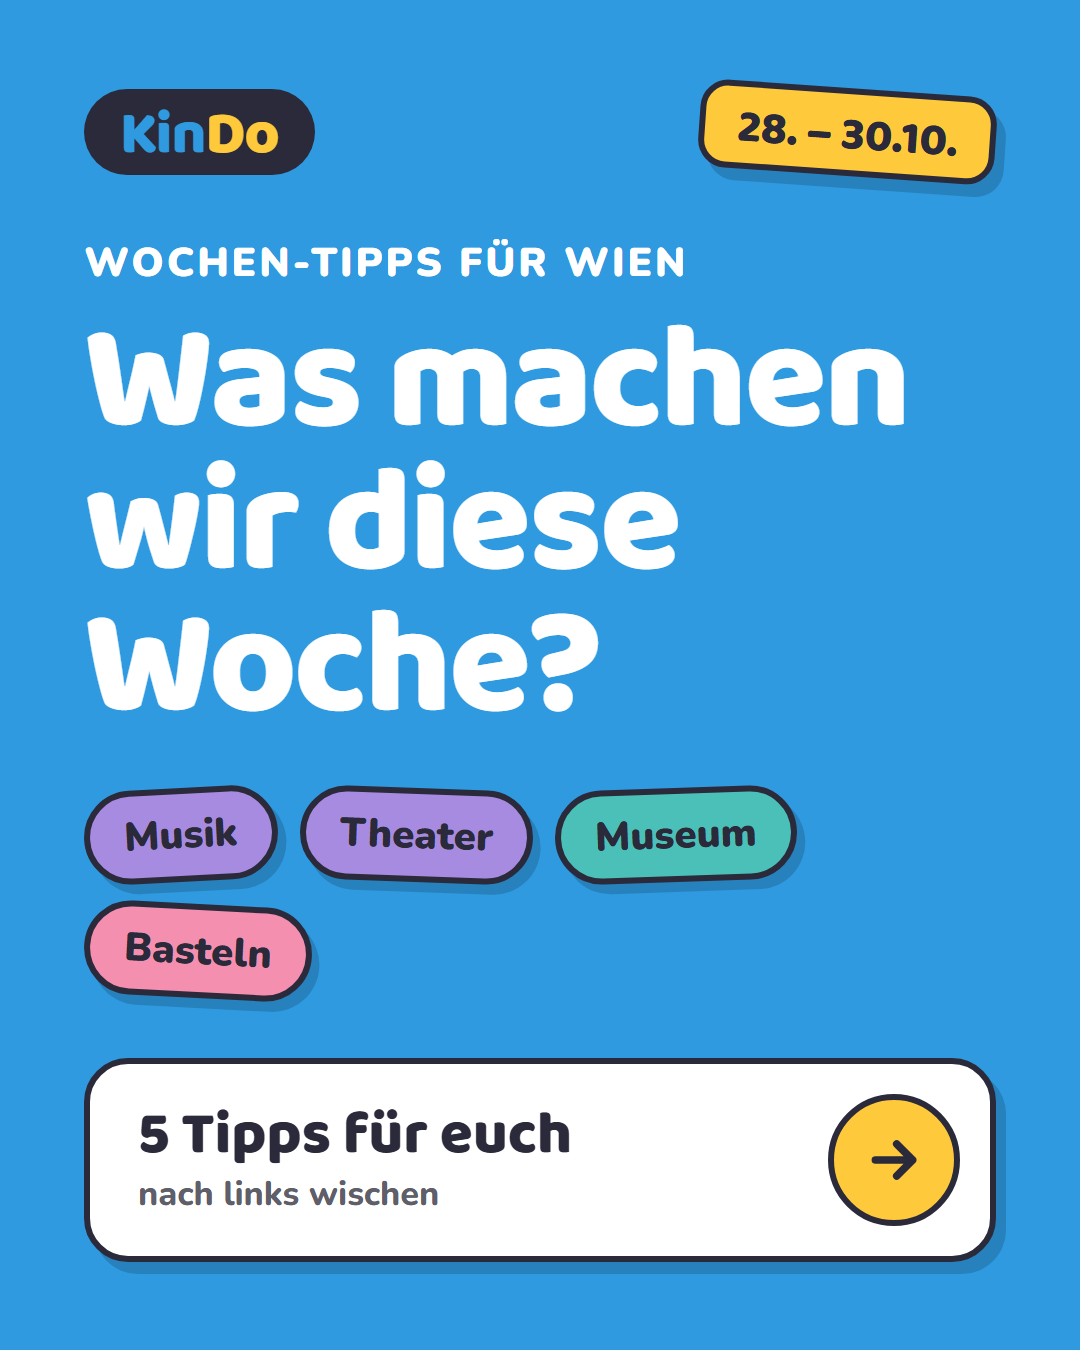
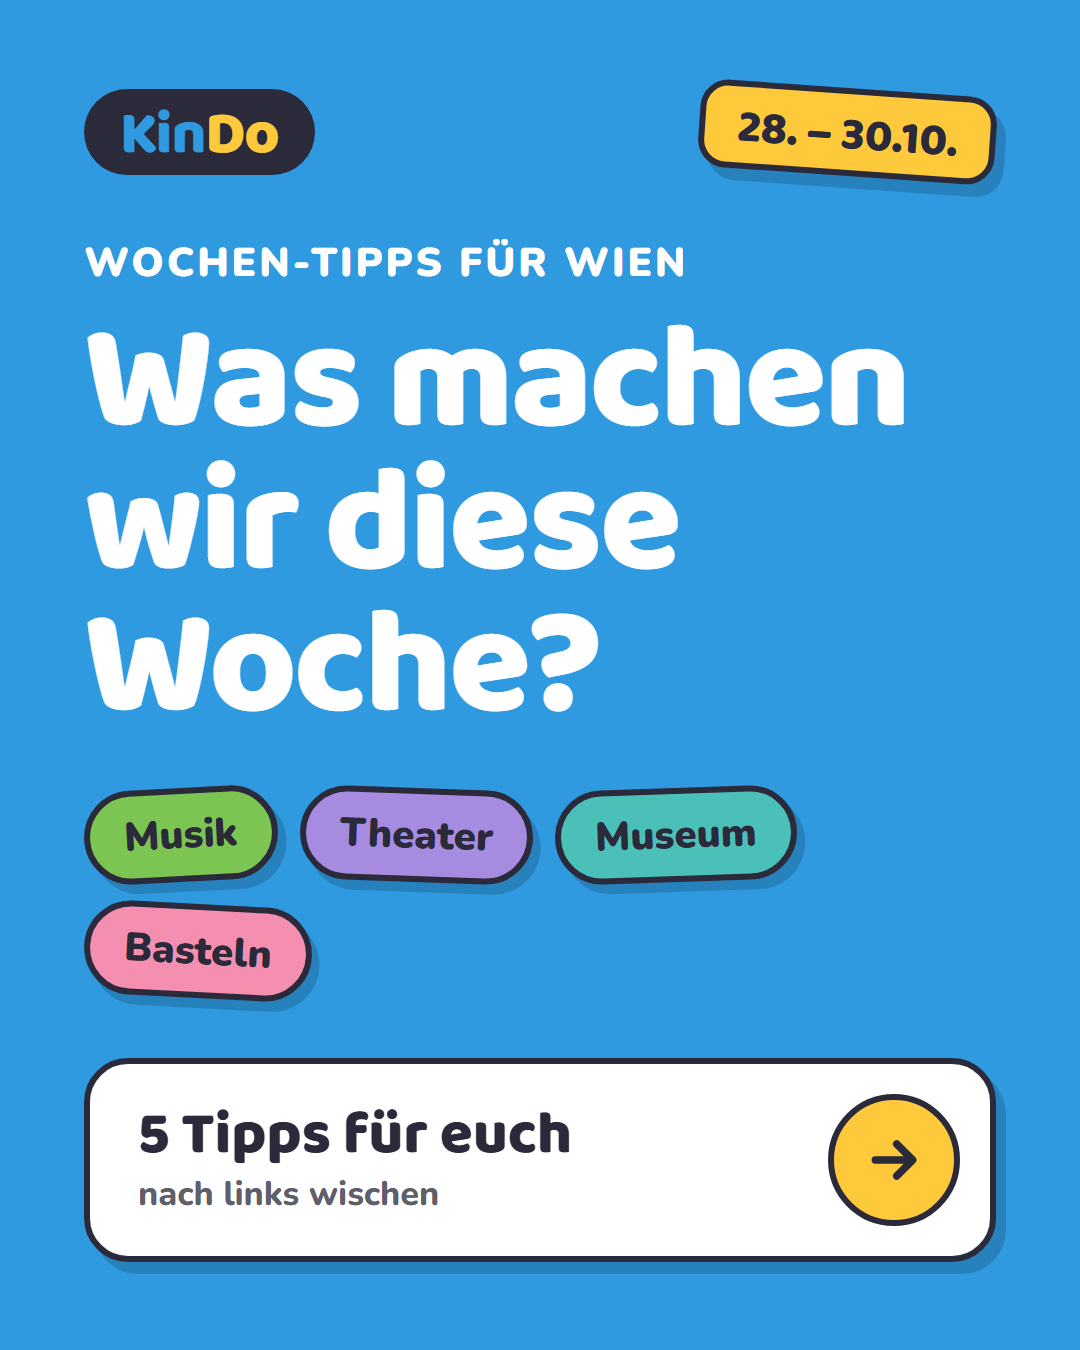
Musik bekommt eine eigene Farbe (grün statt lila wie Theater)
Wochen-Karussell 2026-10-26 neu erzeugt: Tipp 1 (Musik) und Tipp 2
(Theater) waren beide lila.

Changed region(s): [[0.0611, 0.56, 0.275, 0.6533]]

diff --git a/bild.js b/bild.js
@@ -18,7 +18,7 @@ const B = 1080, H = 1350;
 const INK = '#2a2a3a';
 const FARBEN = {
   Basteln: '#f58fb0', Theater: '#a78be0', 'Draußen': '#7cc552', Museum: '#4bc0b8', Feste: '#e8654f',
-  Musik: '#a78be0', Kino: '#2f9ae0', Sport: '#7cc552', Lesen: '#4bc0b8', Ausflug: '#7cc552', Zaubern: '#2f9ae0',
+  Musik: '#7cc552', Kino: '#2f9ae0', Sport: '#7cc552', Lesen: '#4bc0b8', Ausflug: '#7cc552', Zaubern: '#2f9ae0',
 };
 const farbe = k => FARBEN[k] || '#e8654f';
 // Was sich zwischen Wochenend- und Wochen-Beitrag unterscheidet
